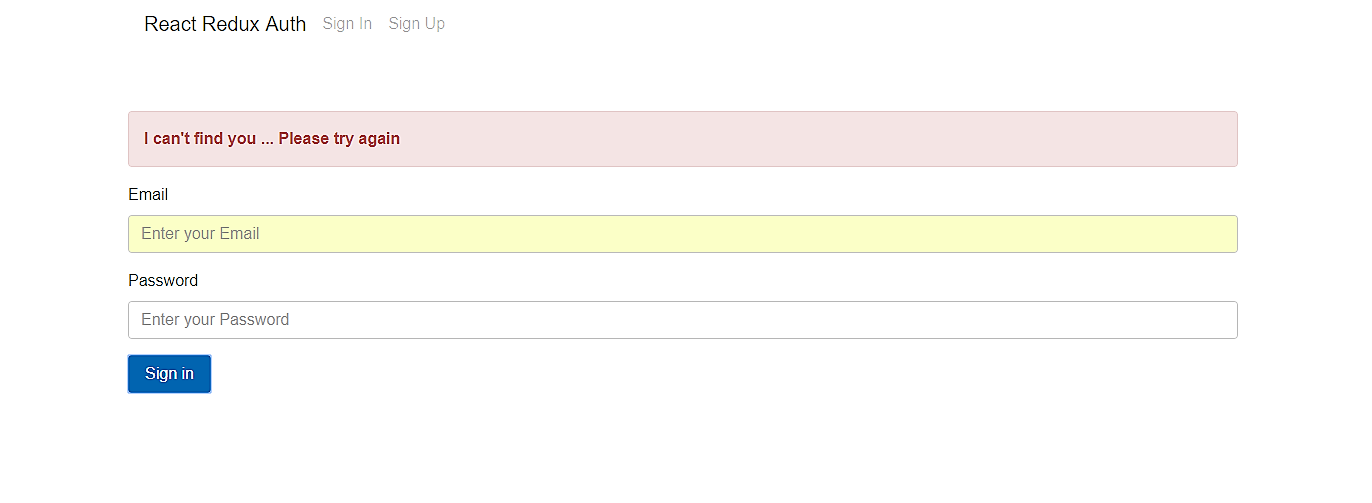
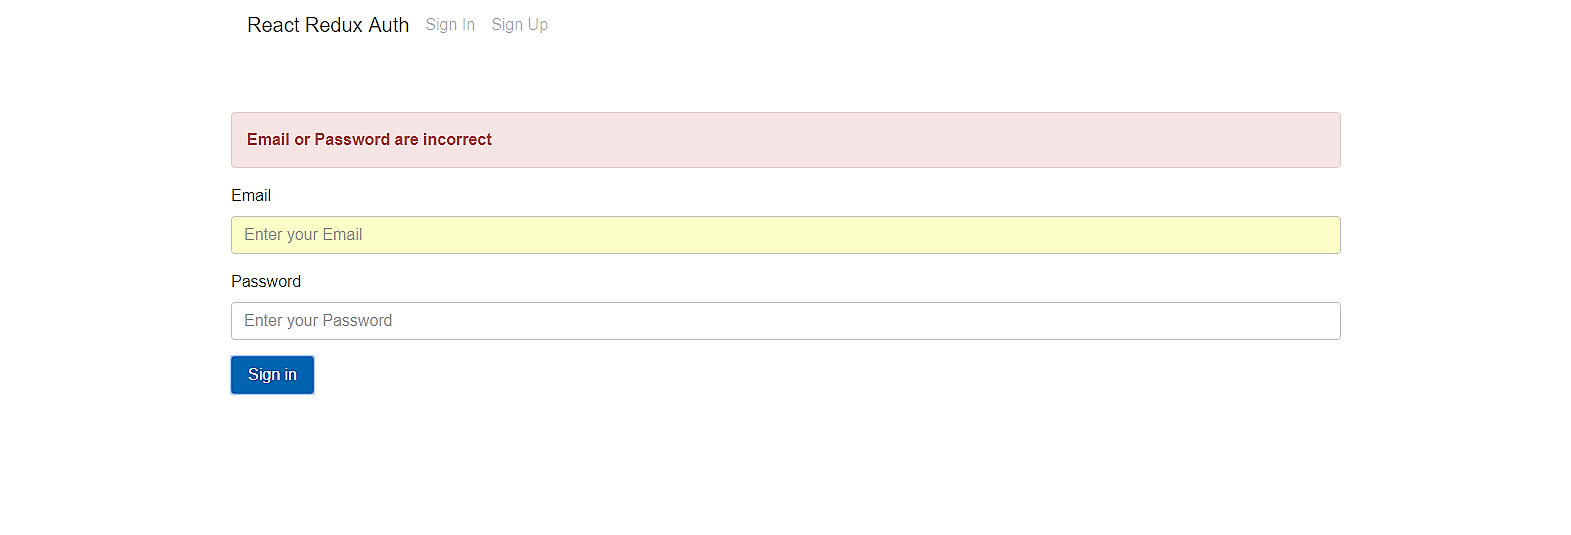
readme updated

diff --git a/src/actions/index.js b/src/actions/index.js
@@ -23,7 +23,7 @@ export default function signinUser(email, password) {
         browserHistory.push('/feature');
       })
       .catch(() => {
-        dispatch(authError('I can\'t find you ... Please try again'));
+        dispatch(authError('Email or Password are incorrect'));
       });
   };
 }
